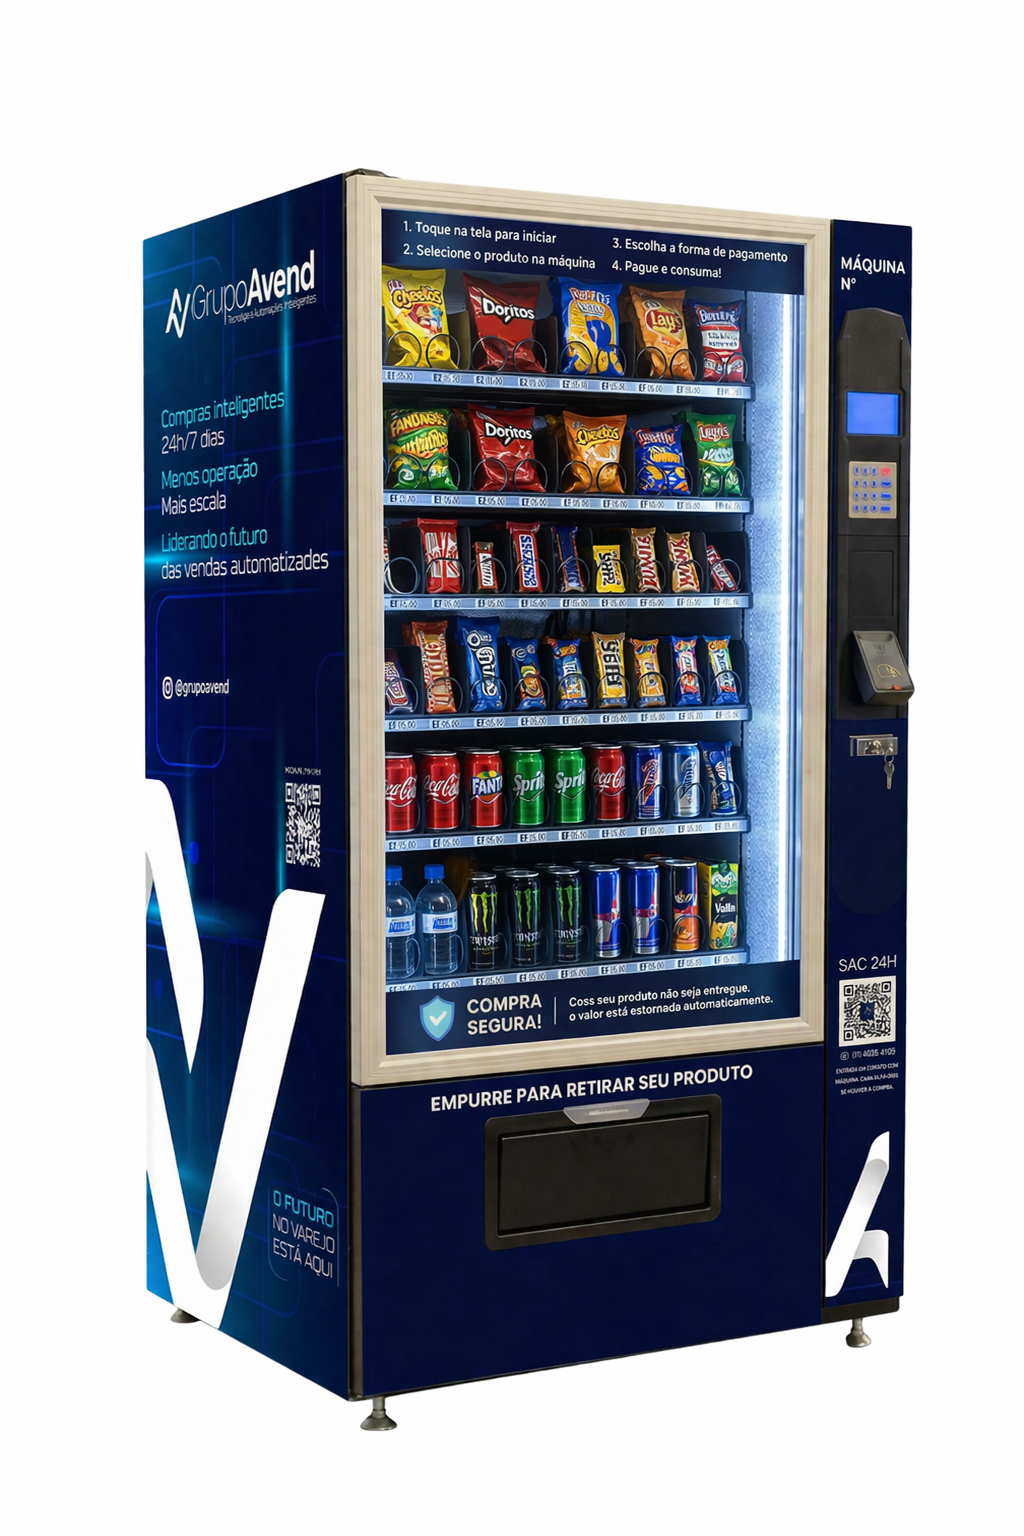
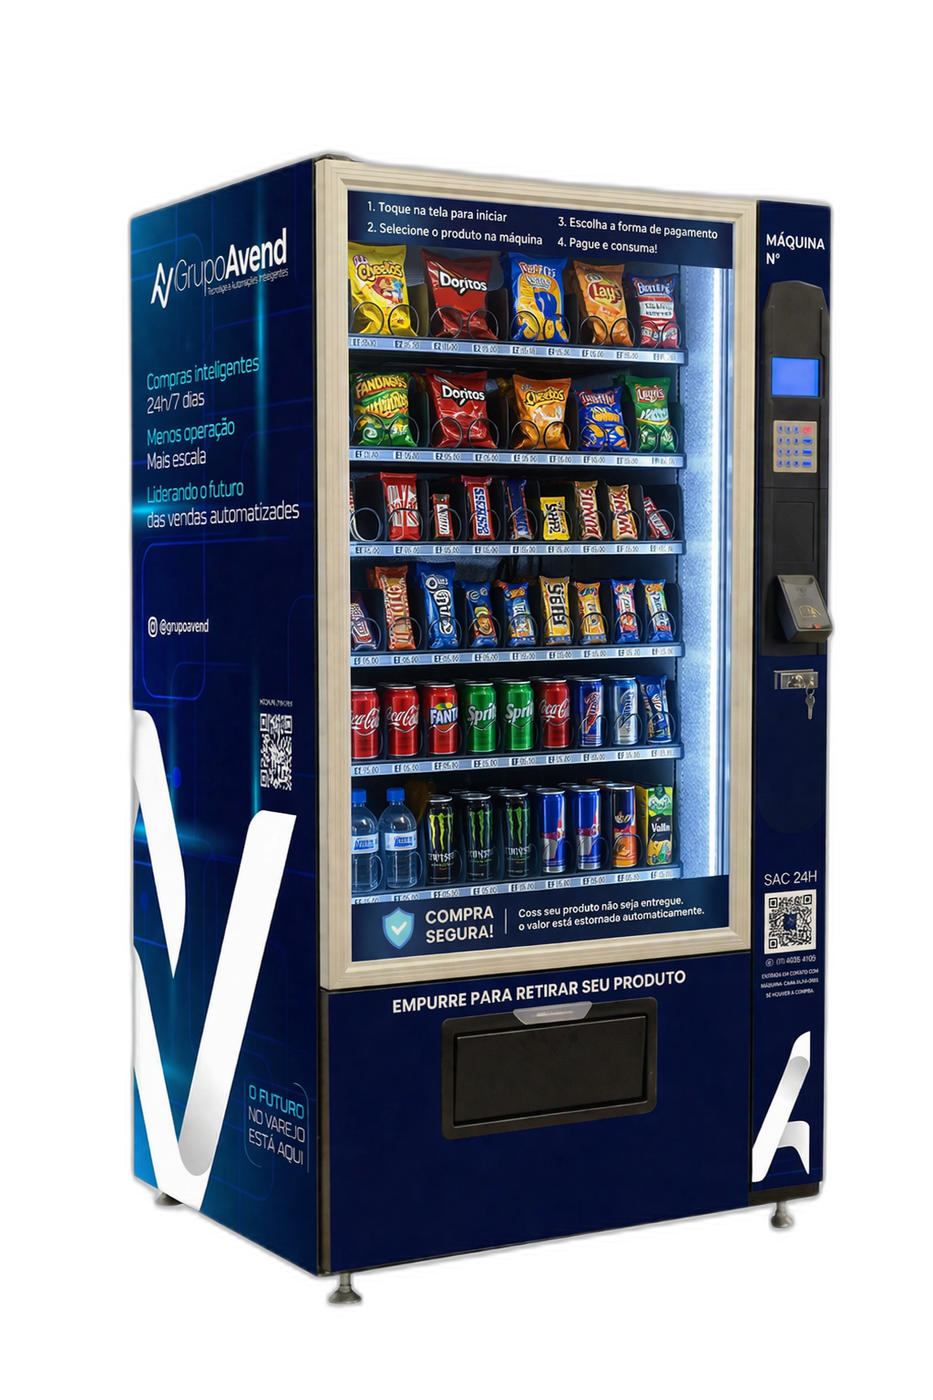
fix(rede): fundo da máquina removido + otimizada (WebP 171KB)
USER pediu pra deixar a imagem da máquina sem fundo. Tentei
remoção automática via rembg (IA local U2Net) e funcionou
perfeitamente — a máquina agora flutua contra o fundo navy do
site, deixando o glow cyan/roxo aparecer ao redor.

OTIMIZAÇÃO de tamanho:
- Original: 1024x1536 RGB, 1.4MB
- Após remoção de fundo: 1024x1536 RGBA, 1.5MB
- Redimensionado pra 933x1400 (suficiente pra renderizar em 560px
  no DPR 2x — Retina/4K confortável)
- PNG otimizado: 1286 KB (8-bit RGBA, non-interlaced)
- WebP gerado: 171 KB (87% menor que PNG, mantém transparência)

HTML usa <picture> com <source type='image/webp'> + fallback PNG.
Browsers modernos (>97% mercado) baixam o WebP. Resto vê PNG.

Pipeline reproduzível pra próximas máquinas/imagens:
  1. python -m pip install 'rembg[cpu]'
  2. rembg processa via U2Net offline (download 1x ~176MB)
  3. PIL redimensiona + salva PNG e WebP

diff --git a/index.html b/index.html
@@ -1484,10 +1484,13 @@
           </div>
           <figure class="maquina-hero-figure">
             <div class="maquina-hero-glow" aria-hidden="true"></div>
-            <img src="assets/maquina-avend.png"
-                 alt="Vending Machine AVEND — modelo padrão da rede"
-                 class="maquina-hero-img"
-                 loading="lazy" />
+            <picture>
+              <source srcset="assets/maquina-avend.webp" type="image/webp" />
+              <img src="assets/maquina-avend.png"
+                   alt="Vending Machine AVEND — modelo padrão da rede"
+                   class="maquina-hero-img"
+                   loading="lazy" />
+            </picture>
             <figcaption class="maquina-hero-caption">Modelo padrão · snack + bebida + energético</figcaption>
           </figure>
         </div>
